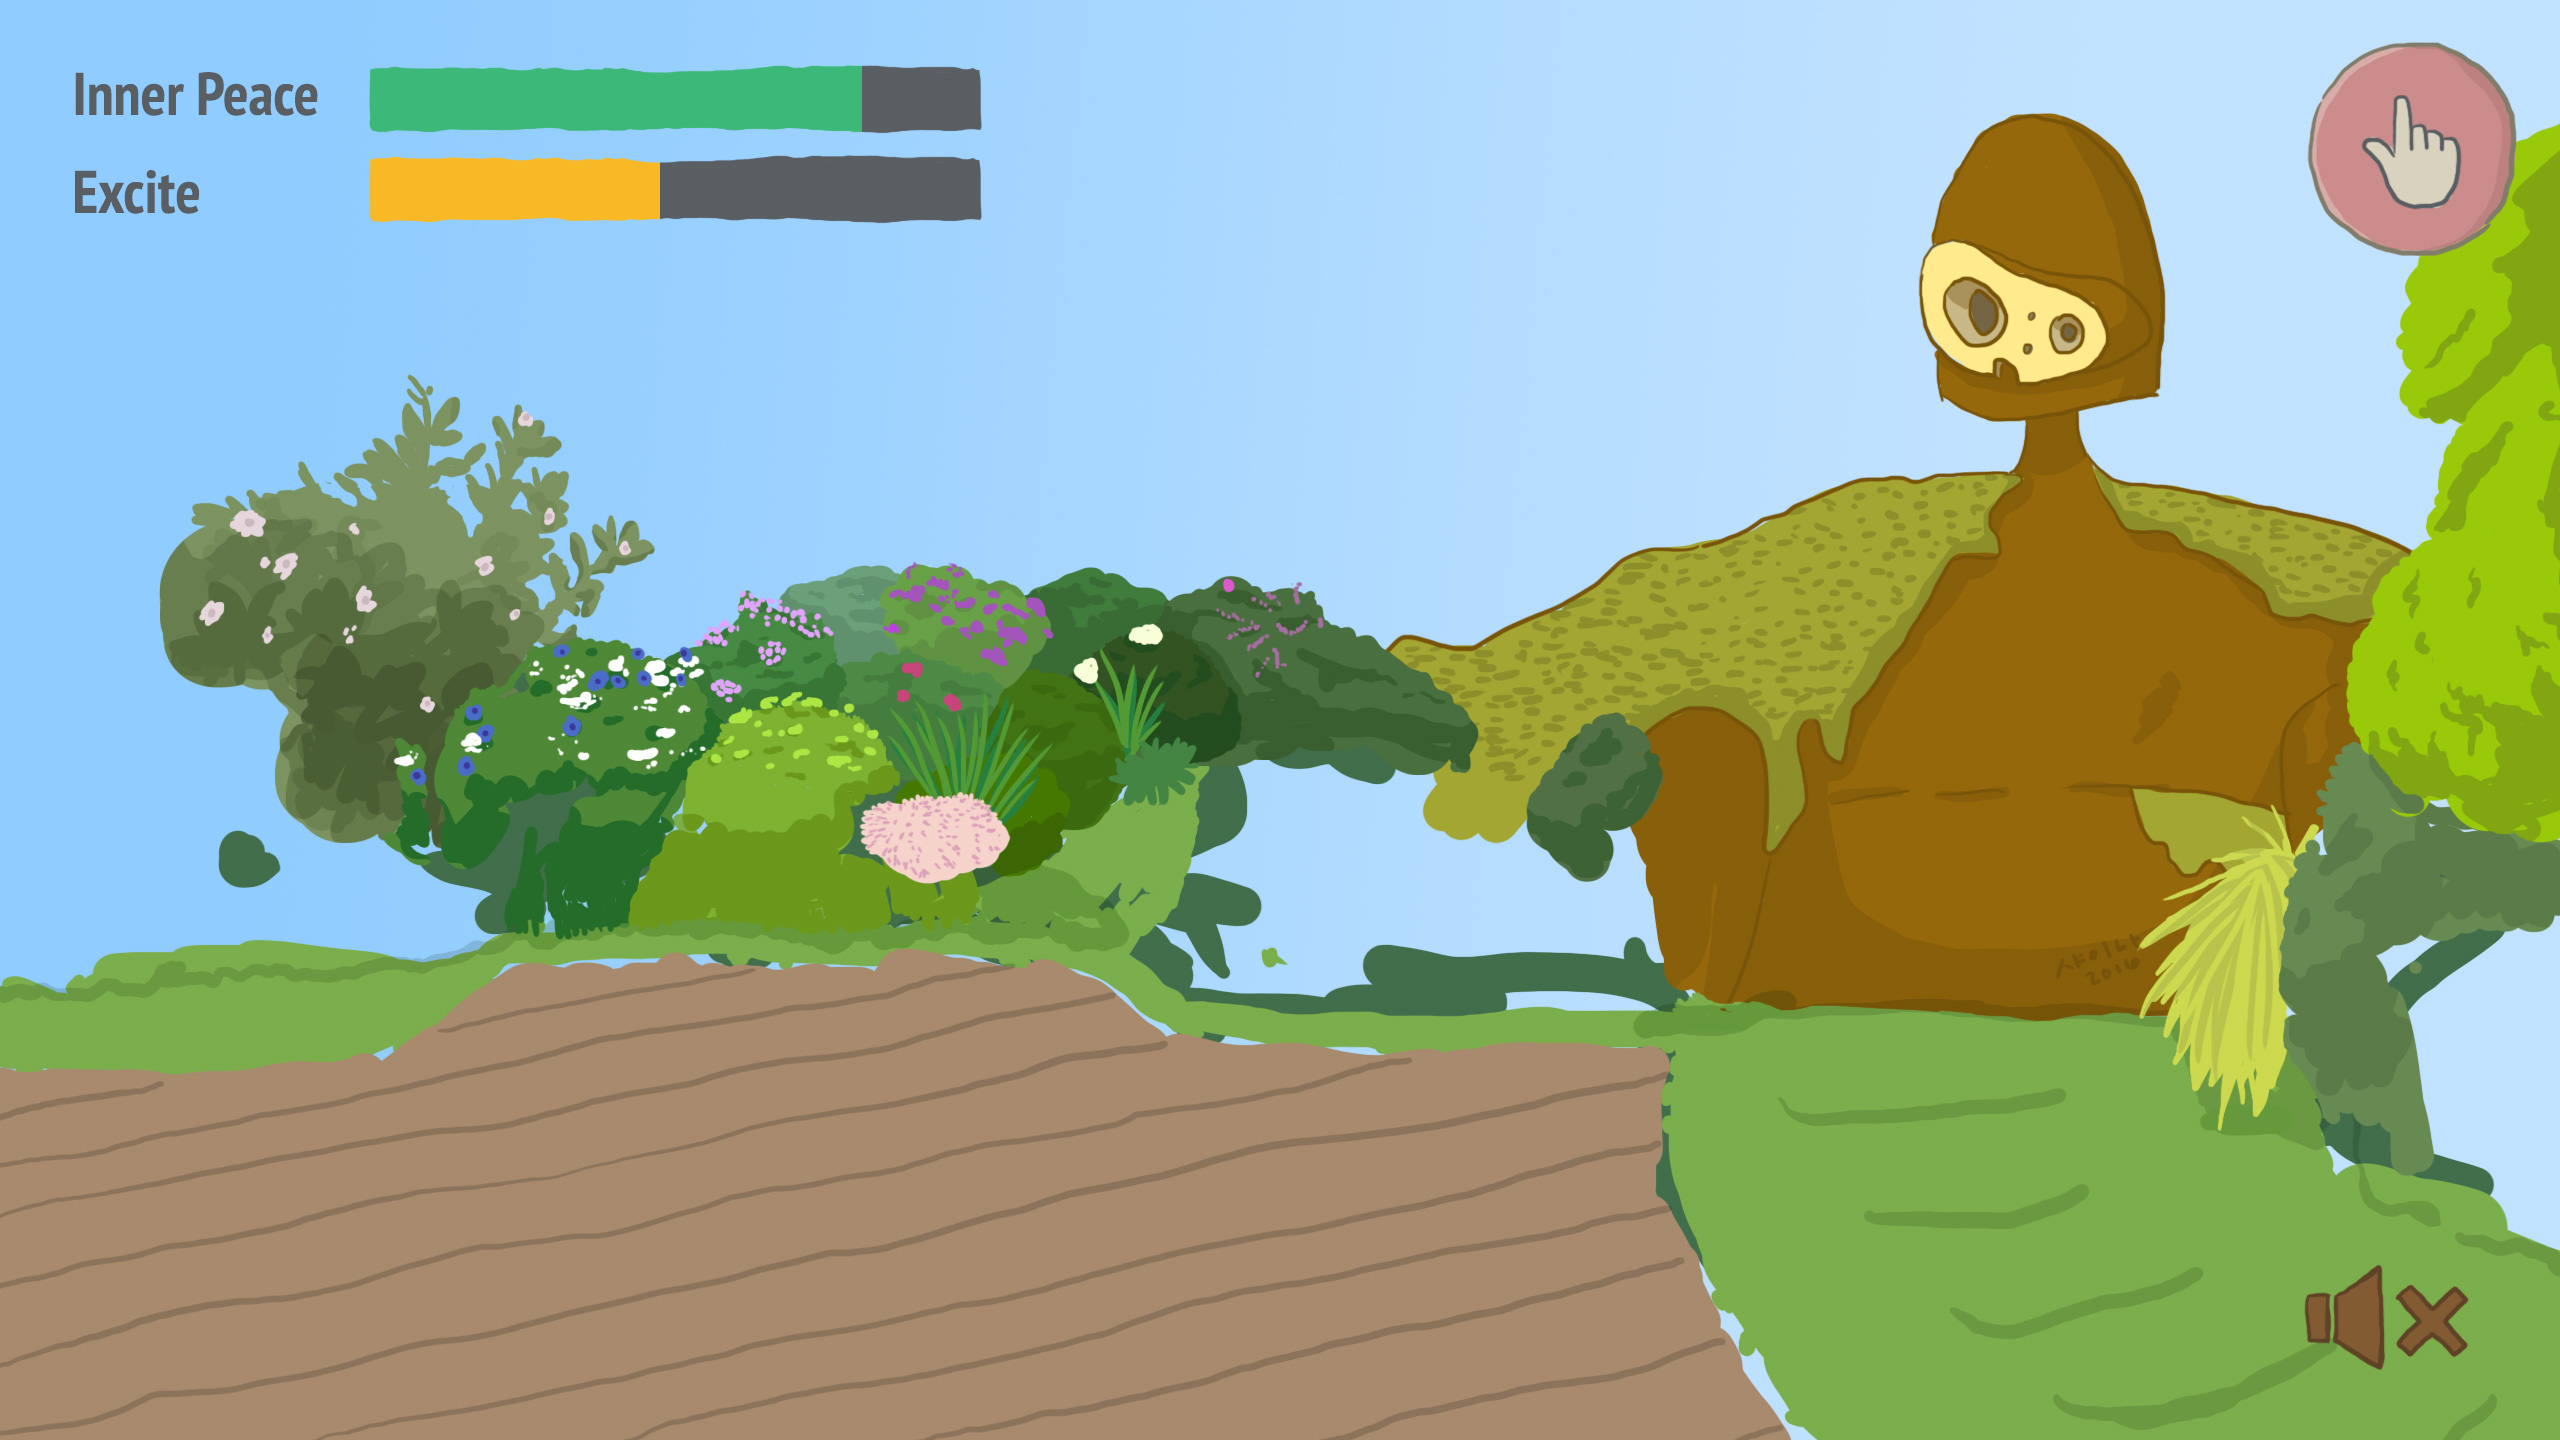
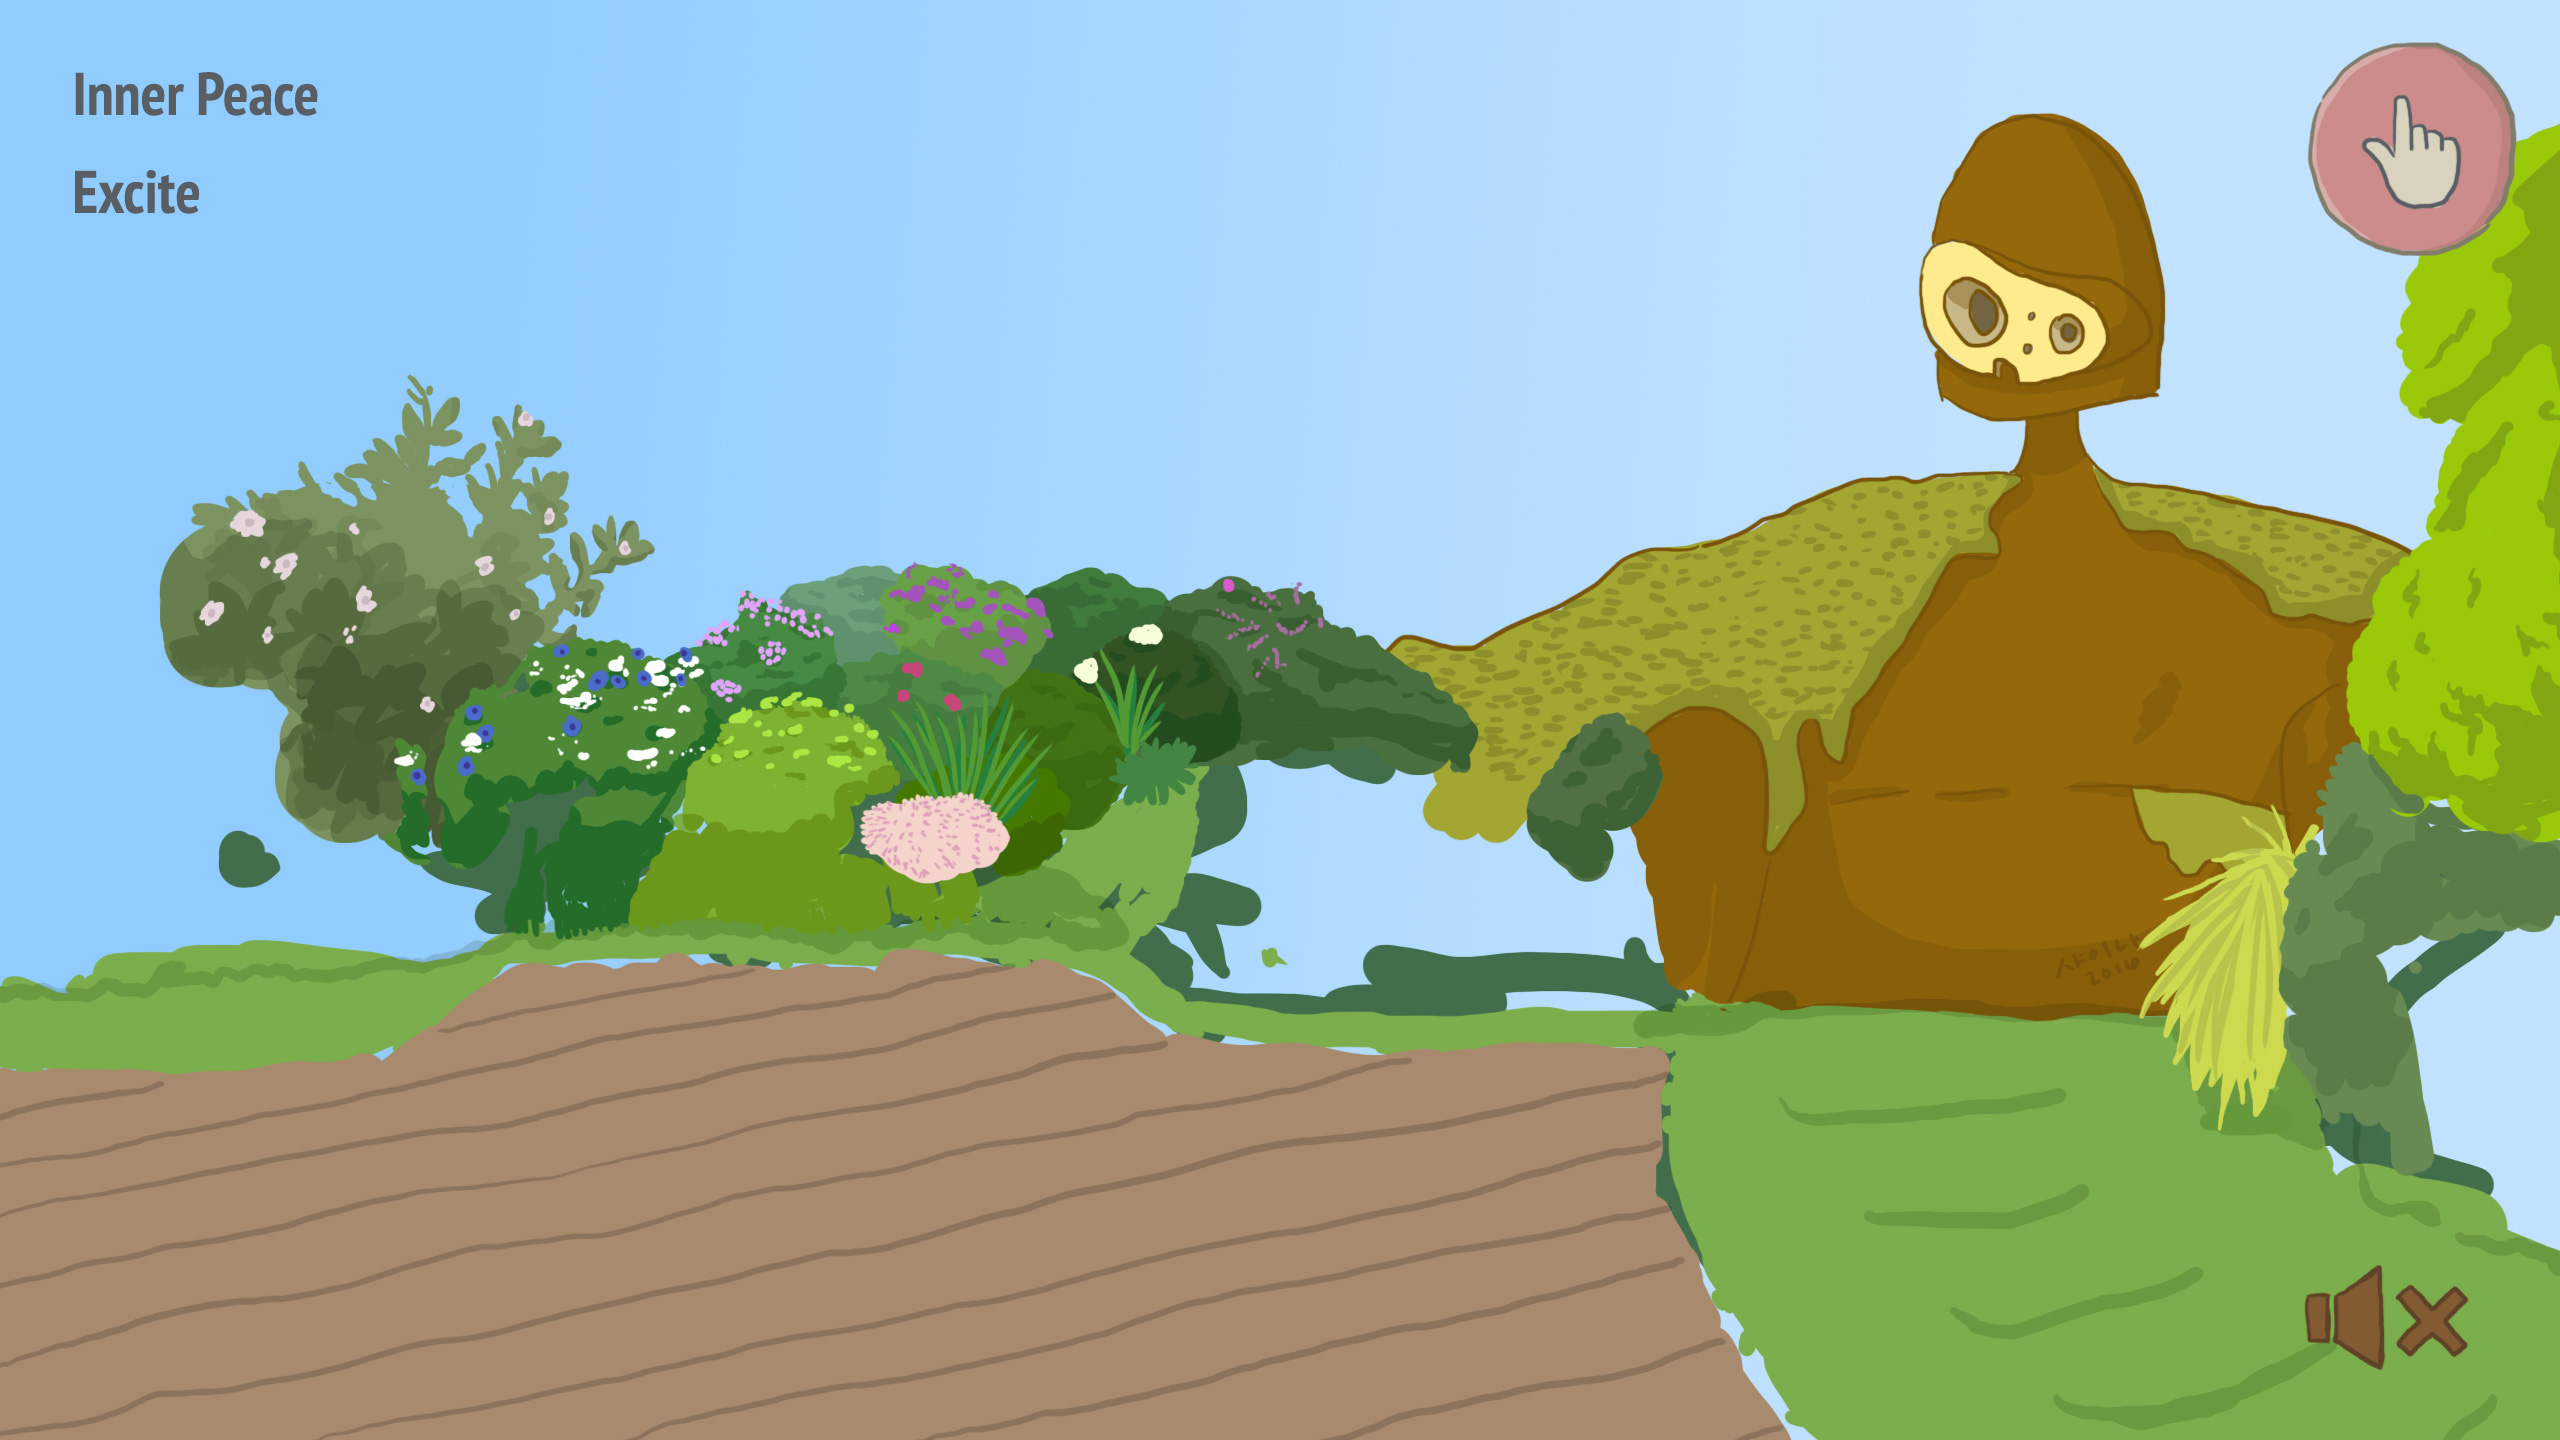
Cleaned up blink animation and added status bar asset/code.

Changed region(s): [[0.125, 0.0312, 0.4062, 0.1562]]

diff --git a/src/js/state-game.js b/src/js/state-game.js
@@ -23,6 +23,9 @@ mamagotchi.state.game = (function(m) {
       objects.dad = this.add.sprite(1112, 217, m.consts.DAD);
       objects.dad.scale.setTo(0.5);
       objects.dad.anchor.setTo(0.5);
+      objects.dad.animations.add(
+        'blink', createBlinkAnimationArray(0, 1, 28), 5, true);
+      objects.dad.play('blink');
 
       // Robot sprite.
       objects.robot = this.add.sprite(215, 312, m.consts.ROBOT);
@@ -35,38 +38,38 @@ mamagotchi.state.game = (function(m) {
 
       // Medium Totoro sprite.
       objects.mediumTotoro =
-          this.add.sprite(1129, 563, m.consts.MEDIUM_TOTORO);
+          this.add.sprite(1109, 563, m.consts.MEDIUM_TOTORO);
       objects.mediumTotoro.anchor.setTo(0.5, 0.95); // Anchor at feet.
 
       // Medium Totoro blink animation.
       objects.mediumTotoro.animations.add(
-        'blink', [0, 0, 0, 0, 0, 0, 0, 0, 0, 0, 0, 0, 1], 4, true);
+        'blink', createBlinkAnimationArray(0, 1, 12), 4, true);
       objects.mediumTotoro.play('blink');
 
       // Medium Totoro resting motion.
       objects.mediumTotoro.scale.setTo(0.52, 0.48);
-      objects.mediumTotoro.angle = -2;
+      objects.mediumTotoro.angle = -3;
       this.add.tween(objects.mediumTotoro).to(
-          {angle:2}, 1500, "Quad.easeInOut", true, 0, -1, true);
+          {angle: 1}, 1100, "Quad.easeInOut", true, 0, -1, true);
       this.add.tween(objects.mediumTotoro.scale).to(
-          {x: 0.5, y: 0.5}, 750, "Quad.easeInOut", true, 0, -1, true);
+          {x: 0.5, y: 0.5}, 550, "Quad.easeInOut", true, 0, -1, true);
 
       // Chibi Totoro sprite.
-      objects.chibiTotoro = this.add.sprite(1080, 562, m.consts.CHIBI_TOTORO);
+      objects.chibiTotoro = this.add.sprite(1070, 562, m.consts.CHIBI_TOTORO);
       objects.chibiTotoro.anchor.setTo(0.5, 0.95); // Anchor at feet.
 
       // Chibi Totoro blink animation.
       objects.chibiTotoro.animations.add(
-        'blink', [0, 0, 0, 0, 0, 0, 0, 0, 0, 0, 0, 0, 1], 5, true);
+        'blink', createBlinkAnimationArray(0, 1, 12), 5, true);
       objects.chibiTotoro.play('blink');
 
       // Chibi Totoro resting motion.
       objects.chibiTotoro.scale.setTo(0.55, 0.45);
       objects.chibiTotoro.angle = -3;
       this.add.tween(objects.chibiTotoro).to(
-          {angle:3}, 1500, "Quad.easeInOut", true, 0, -1, true);
+          {angle: 3}, 1100, "Quad.easeInOut", true, 0, -1, true);
       this.add.tween(objects.chibiTotoro.scale).to(
-          {x: 0.5, y: 0.5}, 750, "Quad.easeInOut", true, 0, -1, true);
+          {x: 0.5, y: 0.5}, 550, "Quad.easeInOut", true, 0, -1, true);
 
       // Front foreground.
       objects.frontForeground =
@@ -82,18 +85,20 @@ mamagotchi.state.game = (function(m) {
 
       // Mama blink animations.
       objects.mama.animations.add(
-        'happyBlink', [0, 0, 0, 0, 0, 0, 0, 0, 0, 0, 0, 0, 1], 3, true);
+        'happyBlink', createBlinkAnimationArray(0, 1), 5, true);
       objects.mama.animations.add(
-        'neutralBlink', [2, 2, 2, 2, 2, 2, 2, 2, 2, 2, 2, 2, 3], 3, true);
+        'neutralBlink', createBlinkAnimationArray(2, 3), 5, true);
       objects.mama.animations.add(
-        'unhappyBlink', [4, 4, 4, 4, 4, 4, 4, 4, 4, 4, 5], 3, true);
+        'unhappyBlink', createBlinkAnimationArray(4, 5), 5, true);
       objects.mama.play('happyBlink');
 
       // Mama resting motion.
       objects.mama.scale.setTo(0.50125, 0.49875);
       objects.mama.angle = -0.125;
-      this.add.tween(objects.mama).to({angle:0.125}, 1400, "Quad.easeInOut", true, 0, -1, true);
-      this.add.tween(objects.mama.scale).to({x: 0.5, y: 0.5}, 700, "Quad.easeInOut", true, 0, -1, true);
+      this.add.tween(objects.mama).to(
+          {angle: 0.125}, 1400, "Quad.easeInOut", true, 0, -1, true);
+      this.add.tween(objects.mama.scale).to(
+          {x: 0.5, y: 0.5}, 700, "Quad.easeInOut", true, 0, -1, true);
 
       // Mama input handler settings.
       objects.mama.inputEnabled = true;
@@ -124,7 +129,7 @@ mamagotchi.state.game = (function(m) {
       objects.mama.events.onDragStop.add(function(sprite) {
         objects.mama.frame = 2;
 
-        var RIGHT_BOUND = 1010;
+        var RIGHT_BOUND = 1000;
         var LEFT_BOUND = 100;
         if (sprite.x > RIGHT_BOUND) {
           objects.mama.customParams.lastX = sprite.x = RIGHT_BOUND;
@@ -136,18 +141,18 @@ mamagotchi.state.game = (function(m) {
       }, this, 0);
 
       // Status bars.
-      var barLabelStyle = {
-        font: '40px ' + m.consts.ARSENAL_MODAL_TITLE_FONT,
-        fill: 'black'
-      };
-      objects.innerPeaceStatusBar = new m.make.StatusBar(m.consts.STARTING_STATS);
-      objects.innerPeaceStatusBar.setPosition(475, 50);
-      var innerPeaceLabel = this.add.text(30, 50, 'Inner Peace:', barLabelStyle);
-      innerPeaceLabel.anchor.setTo(0, 0.5);
-      objects.exciteStatusBar = new m.make.StatusBar(m.consts.STARTING_STATS);
-      objects.exciteStatusBar.setPosition(475, 125);
-      var exciteLabel = this.add.text(30, 125, 'Excite:', barLabelStyle);
-      exciteLabel.anchor.setTo(0, 0.5);
+      var barsLeftMargin = 183;
+      var barsTopMargin = 32;
+      var barsGap = 45;
+      objects.innerPeaceStatusBar = new m.make.StatusBar(
+        m.consts.PEACE_BAR_EMPTY, m.consts.PEACE_BAR_FULL,
+        m.consts.STARTING_STATS);
+      objects.innerPeaceStatusBar.setPosition(barsLeftMargin, barsTopMargin);
+      objects.exciteStatusBar = new m.make.StatusBar(
+        m.consts.EXCITE_BAR_EMPTY, m.consts.EXCITE_BAR_FULL,
+        m.consts.STARTING_STATS);
+      objects.exciteStatusBar.setPosition(
+          barsLeftMargin, barsTopMargin + barsGap);
 
       // Mama status.
       objects.mama.customParams.Status = new m.make.CharacterStatus(
@@ -176,6 +181,27 @@ mamagotchi.state.game = (function(m) {
       setMamaIdleAnimation();
     }
   };
+
+  /**
+   * Given rest frame order and blink frame order, creates and returns an array
+   * that represents a blink for 5fps animation.
+   * @param {number} restFrame Rest frame order.
+   * @param {number} blinkFrame Blink frame order.
+   * @param {number} opt_restFrameCount Number of frames to rest for.
+   * @return {Array.<number>} Array to use for animation.
+   */
+  function createBlinkAnimationArray(
+      restFrame, blinkFrame, opt_restFrameCount) {
+    var restFrames = opt_restFrameCount ? opt_restFrameCount : 25;
+    var array = [];
+    for (var i = 0; i < restFrames; ++i) {
+      array.push(restFrame);
+    }
+
+    // Insert the blink frame at a random index.
+    array.splice(Math.floor((Math.random() * array.length)), 0, blinkFrame);
+    return array;
+  }
 
   /** Gets mama's emotional status and sets appropriate blink animation. */
   function setMamaIdleAnimation() {

diff --git a/src/js/make.js b/src/js/make.js
@@ -122,10 +122,12 @@ mamagotchi.make = (function(m) {
 
   /**
    * Status bar.
-   * @param {?number} starting_stats The default value of the stats.
+   * @param {string} emotyImageKey Key for image representing empty bar.
+   * @param {string} fullImageKey Key for image representing full bar.
+   * @param {?number} opt_startingStats The default value of the stats.
    * @constructor
    */
-  make.StatusBar = function(starting_stats) {
+  make.StatusBar = function(emptyImageKey, fullImageKey, opt_startingStats) {
     var game = m.game;
 
     /**
@@ -134,70 +136,34 @@ mamagotchi.make = (function(m) {
      */
     this.bar = game.add.group();
 
-    var WIDTH = make.StatusBar.WIDTH;
-    var HEIGHT = make.StatusBar.HEIGHT;
+    var emptyBar = game.add.sprite(0, 0, emptyImageKey);
+    var barWidth = emptyBar.width;
+    var barHeight = emptyBar.height;
+    emptyBar.scale.setTo(0.5);
+    this.bar.add(emptyBar);
 
-    var bgBitmap = game.add.bitmapData(WIDTH, HEIGHT);
-    bgBitmap.ctx.fillStyle = make.StatusBar.BACKGROUND_COLOR;
-    bgBitmap.ctx.beginPath();
-    bgBitmap.ctx.rect(0, 0, WIDTH, HEIGHT);
-    bgBitmap.ctx.fill();
+    var bmd = game.add.bitmapData(barWidth, barHeight);
+    bmd.ctx.beginPath();
+    bmd.ctx.rect(0, 0, barWidth, barHeight);
 
-    var background = game.add.sprite(0, 0, bgBitmap);
-    background.anchor.set(0.5);
-    this.bar.add(background);
+    /**
+     * Crop rectangle for the bar.
+     * @type {Phaser.Rectangle}
+     */
+    this.cropRectangle = game.add.sprite(0, 0, bmd);
+    this.bar.add(this.cropRectangle);
 
-    var barBitmap = game.add.bitmapData(WIDTH, HEIGHT);
-    barBitmap.ctx.fillStyle = make.StatusBar.BAR_COLOR;
-    barBitmap.ctx.beginPath();
-    barBitmap.ctx.rect(0, 0, WIDTH, HEIGHT);
-    barBitmap.ctx.fill();
+    this.cropRectangle.scale.x = (opt_startingStats || 100) / 100;
 
-    var stating_stats = (starting_stats || 100) / 100;
     /**
      * The bar sprite.
      * @type {Phaser.Sprite}
      */
-    this.barSprite = game.add.sprite(0 - background.width / 2, 0, barBitmap);
-    this.barSprite.anchor.y = 0.5;
-    this.barSprite.width = stating_stats * make.StatusBar.WIDTH;
+    this.barSprite = game.add.sprite(0, 0, fullImageKey);
+    this.barSprite.scale.setTo(0.5);
+    this.barSprite.crop(this.cropRectangle);
     this.bar.add(this.barSprite);
   };
-
-  /**
-   * Status bar width.
-   * @const
-   * @type {number}
-   */
-  make.StatusBar.WIDTH = 400;
-
-  /**
-   * Status bar height.
-   * @const
-   * @type {number}
-   */
-  make.StatusBar.HEIGHT = 50;
-
-  /**
-   * Background hex code.
-   * @const
-   * @type {string}
-   */
-  make.StatusBar.BACKGROUND_COLOR = 'blue';
-
-  /**
-   * Background hex code.
-   * @const
-   * @type {string}
-   */
-  make.StatusBar.BAR_COLOR = 'red';
-
-  /**
-   * Status change animation duration.
-   * @const
-   * @type {number}
-   */
-  make.StatusBar.ANIMATION_DURATION = 200;
 
   /**
    * Sets the status bar filled state.
@@ -210,10 +176,8 @@ mamagotchi.make = (function(m) {
     if (percentValue > 100) {
       percentValue = 100;
     }
-    var newWidth = (percentValue * make.StatusBar.WIDTH) / 100;
-    m.game.add.tween(this.barSprite).to(
-      {width: newWidth}, make.StatusBar.ANIMATION_DURATION,
-      Phaser.Easing.Linear.None, true);
+    this.cropRectangle.scale.x = percentValue / 100;
+    this.barSprite.updateCrop();
   };
 
   /**

diff --git a/src/js/state-preload.js b/src/js/state-preload.js
@@ -42,6 +42,14 @@ mamagotchi.state.preload = (function(m) {
         consts.IMG_PATH + 'spritesheet-totoro-chibi-60x90x2.png', 60, 90);
       this.load.image(
         consts.FRONT_FOREGROUND, consts.IMG_PATH + 'foreground-front.png');
+      this.load.image(
+        consts.PEACE_BAR_EMPTY, consts.IMG_PATH + 'bar-inner-peace-empty.png');
+      this.load.image(
+        consts.PEACE_BAR_FULL, consts.IMG_PATH + 'bar-inner-peace-full.png');
+      this.load.image(
+        consts.EXCITE_BAR_EMPTY, consts.IMG_PATH + 'bar-excite-empty.png');
+      this.load.image(
+        consts.EXCITE_BAR_FULL, consts.IMG_PATH + 'bar-excite-full.png');
 
       this.load.image(consts.ARSENAL_BUTTON,
           consts.IMG_PATH + consts.ARSENAL_BUTTON + consts.PNG);

diff --git a/src/js/setup.js b/src/js/setup.js
@@ -33,6 +33,11 @@ mamagotchi.consts = (function() {
   consts.FRONT_FOREGROUND = 'frontForeground';
   consts.REAR_FOREGROUND = 'rearForeground';
 
+  consts.PEACE_BAR_EMPTY = 'peaceBar_empty';
+  consts.PEACE_BAR_FULL = 'peaceBar_full';
+  consts.EXCITE_BAR_EMPTY = 'exciteBar_empty';
+  consts.EXCITE_BAR_FULL = 'exciteBar_full';
+
   consts.ARSENAL_BUTTON = 'arsenal-button';
   consts.ARSENAL_COFFEE = 'arsenal-coffee';
   consts.ARSENAL_CULTURE = 'arsenal-culture';
